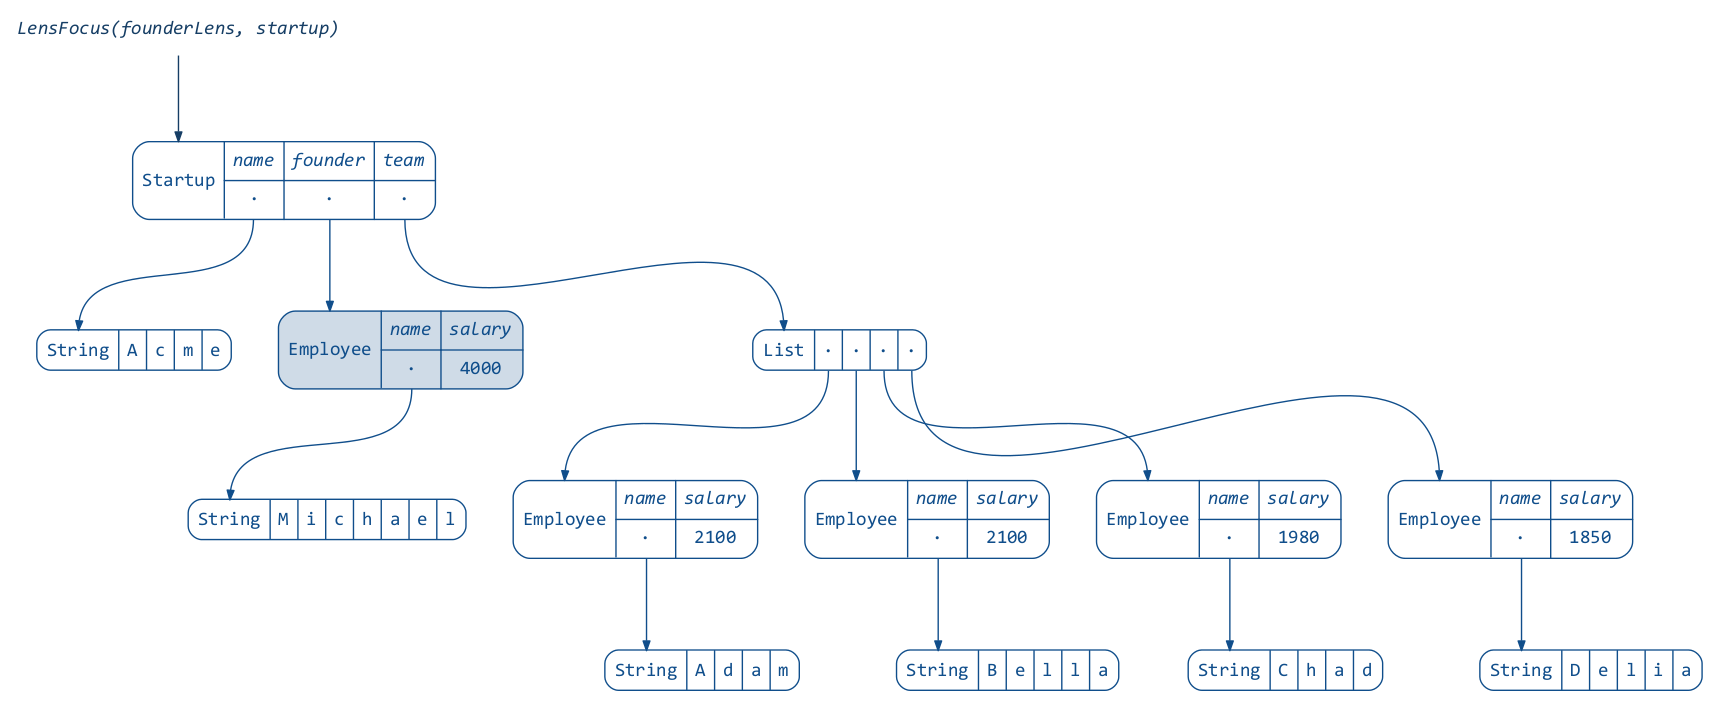
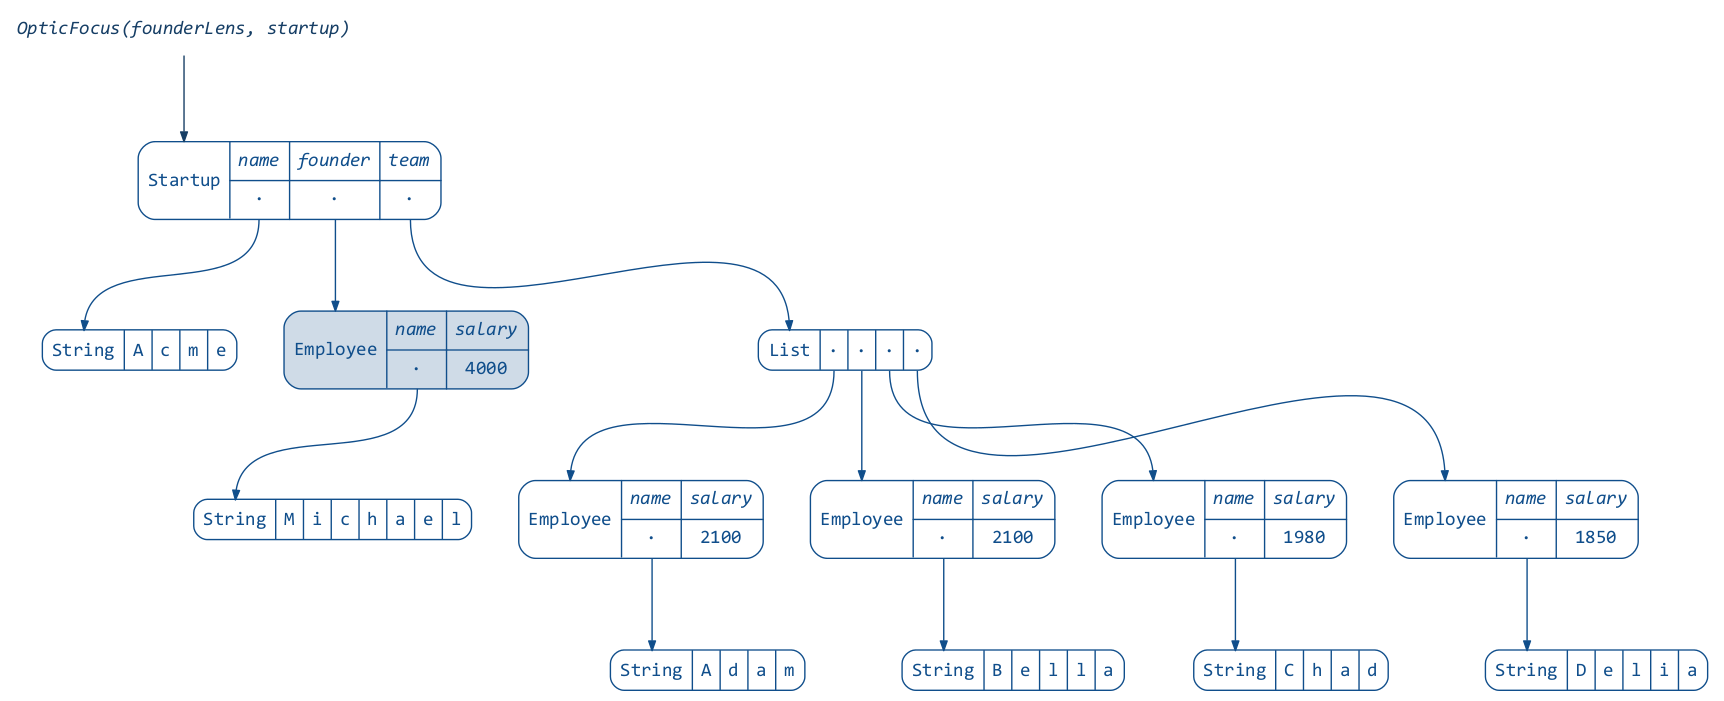
Rename LensInstances to OpticInstances
* Renamed LensInstances to OpticInstances and LensFocus to OpticFocus.
* Added OpticFocus constructor for Optional and Prism.
* Revised the optic visualization algorithm to not rely on Example[B].
* Moved several SVG-related implicits to reftree.svg package object.
* Introduced more utils for live demos.

diff --git a/demo.md b/demo.md
@@ -280,7 +280,7 @@ raisedFounder: reftree.demo.Data.Startup = Startup(Acme,Employee(Michael,4010),L
 ```scala
 // extra declarations for this section
 import reftree.contrib.SimplifiedInstances.list
-import reftree.contrib.LensInstances._
+import reftree.contrib.OpticInstances._
 
 val renderer = Renderer(
   renderingOptions = RenderingOptions(density = 100),
@@ -318,7 +318,7 @@ res12: reftree.demo.Data.Employee = Employee(Michael,4010)
 ```
 
 ```scala
-diagram(LensFocus(salaryLens, startup.founder)).render("salaryLens")
+diagram(OpticFocus(salaryLens, startup.founder)).render("salaryLens")
 ```
 
 <p align="center"><img src="images/lenses/salaryLens.png" width="40%" /></p>
@@ -334,7 +334,7 @@ res14: reftree.demo.Data.Employee = Employee(Michael,4000)
 ```
 
 ```scala
-diagram(LensFocus(founderLens, startup)).render("founderLens")
+diagram(OpticFocus(founderLens, startup)).render("founderLens")
 ```
 
 <p align="center"><img src="images/lenses/founderLens.png" width="100%" /></p>
@@ -353,7 +353,7 @@ res17: reftree.demo.Data.Startup = Startup(Acme,Employee(Michael,4010),List(Empl
 ```
 
 ```scala
-diagram(LensFocus(founderSalaryLens, startup)).render("founderSalaryLens")
+diagram(OpticFocus(founderSalaryLens, startup)).render("founderSalaryLens")
 ```
 
 <p align="center"><img src="images/lenses/founderSalaryLens.png" width="100%" /></p>
@@ -362,7 +362,7 @@ One interesting thing is that lenses can focus on anything, not just direct attr
 Here is a traversal — a more generic kind of lens — that focuses on all vowels in a string:
 
 ```scala
-diagram(LensFocus(vowelTraversal, "example")).render("vowelTraversal")
+diagram(OpticFocus(vowelTraversal, "example")).render("vowelTraversal")
 ```
 
 <p align="center"><img src="images/lenses/vowelTraversal.png" width="40%" /></p>
@@ -381,7 +381,7 @@ res20: reftree.demo.Data.Startup = Startup(Acme,Employee(MIchAEl,4000),List(Empl
 ```
 
 ```scala
-diagram(LensFocus(founderVowelTraversal, startup)).render("founderVowelTraversal")
+diagram(OpticFocus(founderVowelTraversal, startup)).render("founderVowelTraversal")
 ```
 
 <p align="center"><img src="images/lenses/founderVowelTraversal.png" width="100%" /></p>

diff --git a/demo/src/main/tut/demo.md b/demo/src/main/tut/demo.md
@@ -261,7 +261,7 @@ val raisedFounder = startup.copy(
 ```tut:silent
 // extra declarations for this section
 import reftree.contrib.SimplifiedInstances.list
-import reftree.contrib.LensInstances._
+import reftree.contrib.OpticInstances._
 
 val renderer = Renderer(
   renderingOptions = RenderingOptions(density = 100),
@@ -294,7 +294,7 @@ salaryLens.modify(s => s + 10)(startup.founder)
 ```
 
 ```tut:silent
-diagram(LensFocus(salaryLens, startup.founder)).render("salaryLens")
+diagram(OpticFocus(salaryLens, startup.founder)).render("salaryLens")
 ```
 
 <p align="center"><img src="images/lenses/salaryLens.png" width="40%" /></p>
@@ -308,7 +308,7 @@ founderLens.get(startup)
 ```
 
 ```tut:silent
-diagram(LensFocus(founderLens, startup)).render("founderLens")
+diagram(OpticFocus(founderLens, startup)).render("founderLens")
 ```
 
 <p align="center"><img src="images/lenses/founderLens.png" width="100%" /></p>
@@ -323,7 +323,7 @@ founderSalaryLens.modify(s => s + 10)(startup)
 ```
 
 ```tut:silent
-diagram(LensFocus(founderSalaryLens, startup)).render("founderSalaryLens")
+diagram(OpticFocus(founderSalaryLens, startup)).render("founderSalaryLens")
 ```
 
 <p align="center"><img src="images/lenses/founderSalaryLens.png" width="100%" /></p>
@@ -332,7 +332,7 @@ One interesting thing is that lenses can focus on anything, not just direct attr
 Here is a traversal — a more generic kind of lens — that focuses on all vowels in a string:
 
 ```tut:silent
-diagram(LensFocus(vowelTraversal, "example")).render("vowelTraversal")
+diagram(OpticFocus(vowelTraversal, "example")).render("vowelTraversal")
 ```
 
 <p align="center"><img src="images/lenses/vowelTraversal.png" width="40%" /></p>
@@ -347,7 +347,7 @@ founderVowelTraversal.modify(v => v.toUpper)(startup)
 ```
 
 ```tut:silent
-diagram(LensFocus(founderVowelTraversal, startup)).render("founderVowelTraversal")
+diagram(OpticFocus(founderVowelTraversal, startup)).render("founderVowelTraversal")
 ```
 
 <p align="center"><img src="images/lenses/founderVowelTraversal.png" width="100%" /></p>
